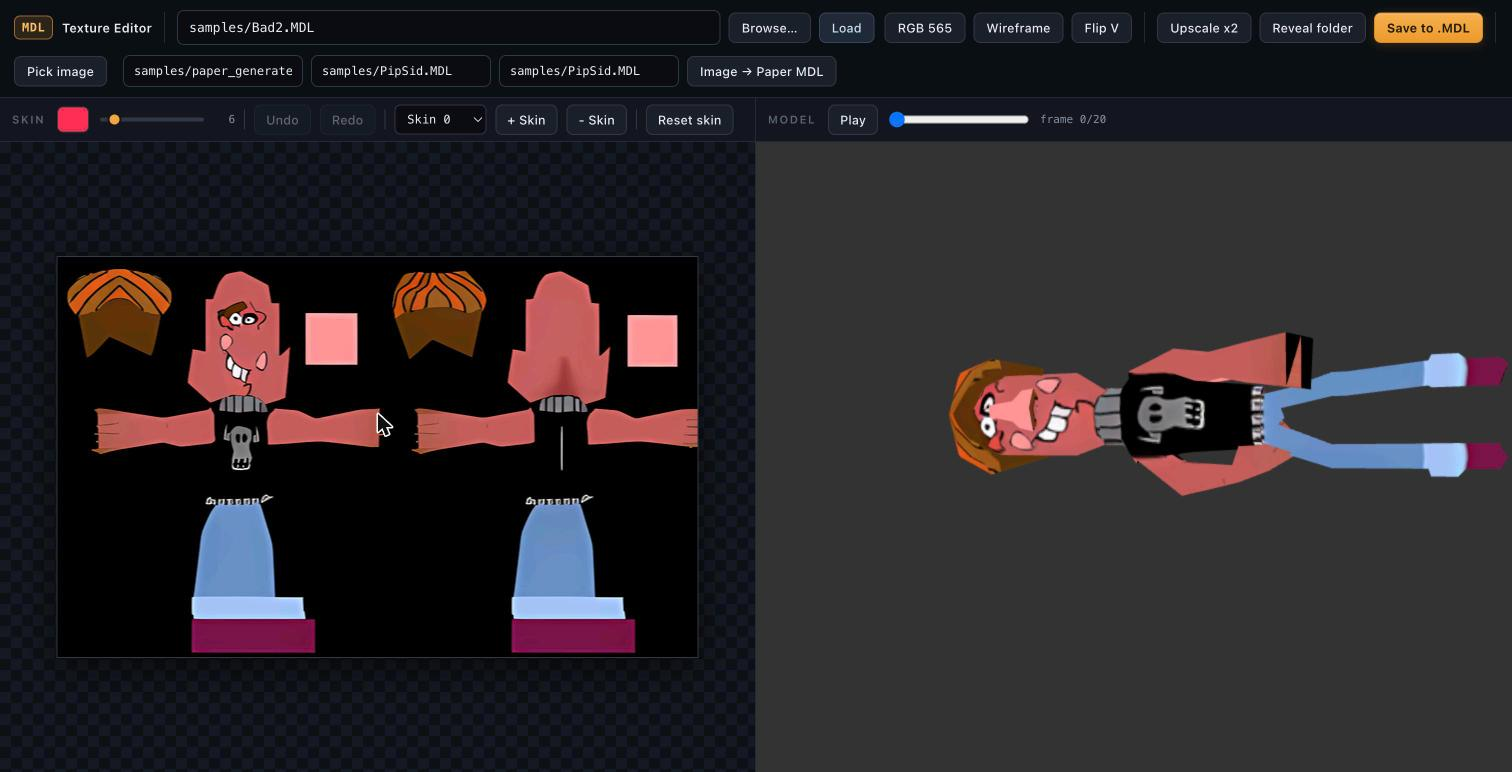
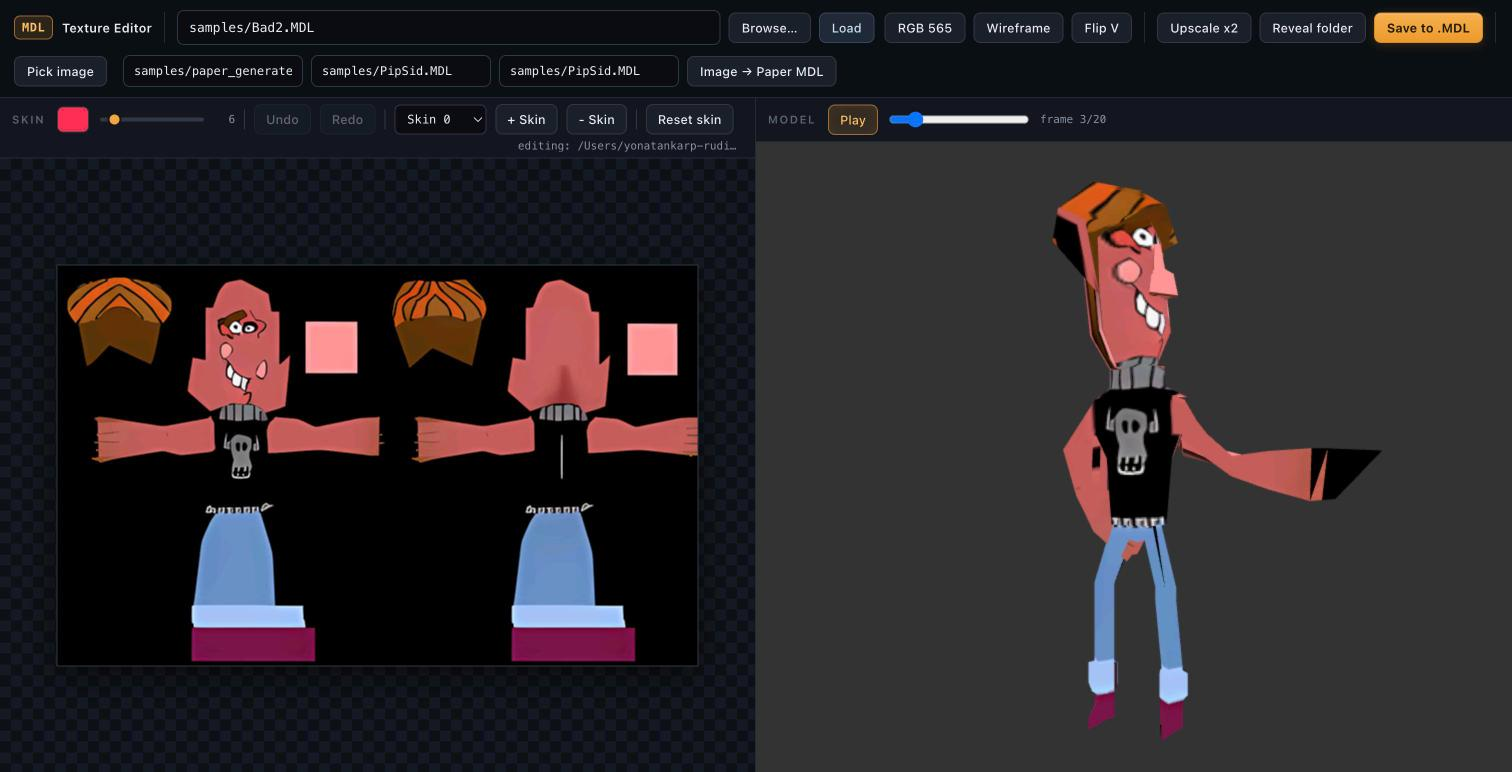
fix: keep animated models upright (applyAnimFrame must match geo.rotateX)
MDL geometry is Z-up; load() bakes geo.rotateX(-90deg) to stand figures in
Three.js's Y-up world. The PR's new applyAnimFrame() rewrote the position
attribute with raw server-space (Z-up) frame data on every load and during
playback, bypassing that rotation, so the model reverted to lying on its side
(e.g. Bad2.MDL "walking on the wall"). Apply the same rotation per frame:
(x, y, z) -> (x, z, -y).

Regression test: test_animated_model_stands_upright loads the 20-frame MDL3
figure Bad2.MDL and asserts the mesh's tallest extent is along Y (standing),
not Z (lying). 3D orientation has no DOM projection, so it reads the loaded
mesh geometry via a small window.__model debug handle set in load().

Full suite 37 passed (32 backend + 5 frontend).

diff --git a/static/app.js b/static/app.js
@@ -325,8 +325,17 @@ function applyAnimFrame(frameIdx) {
   const idx = Math.max(0, Math.min(frameIdx, animFrames.length - 1));
   const arr = animFrames[idx];
   const pos = mesh.geometry.getAttribute("position");
-  // Geometry shape is constant; only corner positions change per frame.
-  pos.array.set(arr);
+  // Frame positions come from the server in the model's native Z-up space. The
+  // initial geometry is baked into Three.js's Y-up world via geo.rotateX(-90),
+  // so each frame must get the SAME rotation here — otherwise writing the raw
+  // Z-up positions reverts the mesh to lying on its side. rotateX(-90) maps
+  // (x, y, z) -> (x, z, -y).
+  const out = pos.array;
+  for (let i = 0; i < arr.length; i += 3) {
+    out[i] = arr[i];
+    out[i + 1] = arr[i + 2];
+    out[i + 2] = -arr[i + 1];
+  }
   pos.needsUpdate = true;
   mesh.geometry.computeBoundingSphere();
   animFrame = idx;
@@ -384,6 +393,8 @@ async function load(path) {
     if (mat565) mat565.dispose();
   }
   mesh = new THREE.Mesh(geo, mat);
+  mesh.name = "model";
+  window.__model = mesh; // debug/test handle for inspecting the loaded model
   scene.add(mesh);
   frameCamera(geo);
   fullMat = mat;

diff --git a/tests/test_frontend.py b/tests/test_frontend.py
@@ -210,3 +210,22 @@ def test_reset_keeps_selected_skin(page, live_server_factory):
 
     assert page.locator("#skinselect").input_value() == "1"
     assert pixel(page, diff["x"], diff["y"]) == diff["skin1"]
+
+
+def test_animated_model_stands_upright(page, live_server_factory):
+    # Regression: MDL geometry is Z-up and the loader rotates it -90deg about X
+    # into Three.js's Y-up world so figures stand. applyAnimFrame() rewrites the
+    # position attribute every load (frame 0) and during playback, so it must
+    # apply the SAME rotation or the model reverts to Z-up and lies on its side.
+    # 3D orientation has no DOM projection, so read the loaded mesh's geometry
+    # bounding box via the debug handle. Bad2 is a 20-frame MDL3 (A5) figure.
+    open_editor_with_model(page, live_server_factory("Paper2.MDL", "Bad2.MDL"), "Bad2.MDL")
+    size = page.evaluate(
+        "() => { const m = window.__model; m.geometry.computeBoundingBox();"
+        " const b = m.geometry.boundingBox;"
+        " return [b.max.x - b.min.x, b.max.y - b.min.y, b.max.z - b.min.z]; }"
+    )
+    dx, dy, dz = size
+    # Bad2 is a humanoid: its tallest extent is its height. Standing => height
+    # is along Y; lying on its side (the bug) => height is along Z.
+    assert dy > dz and dy > dx, f"model not upright: extents dx={dx:.1f} dy={dy:.1f} dz={dz:.1f}"